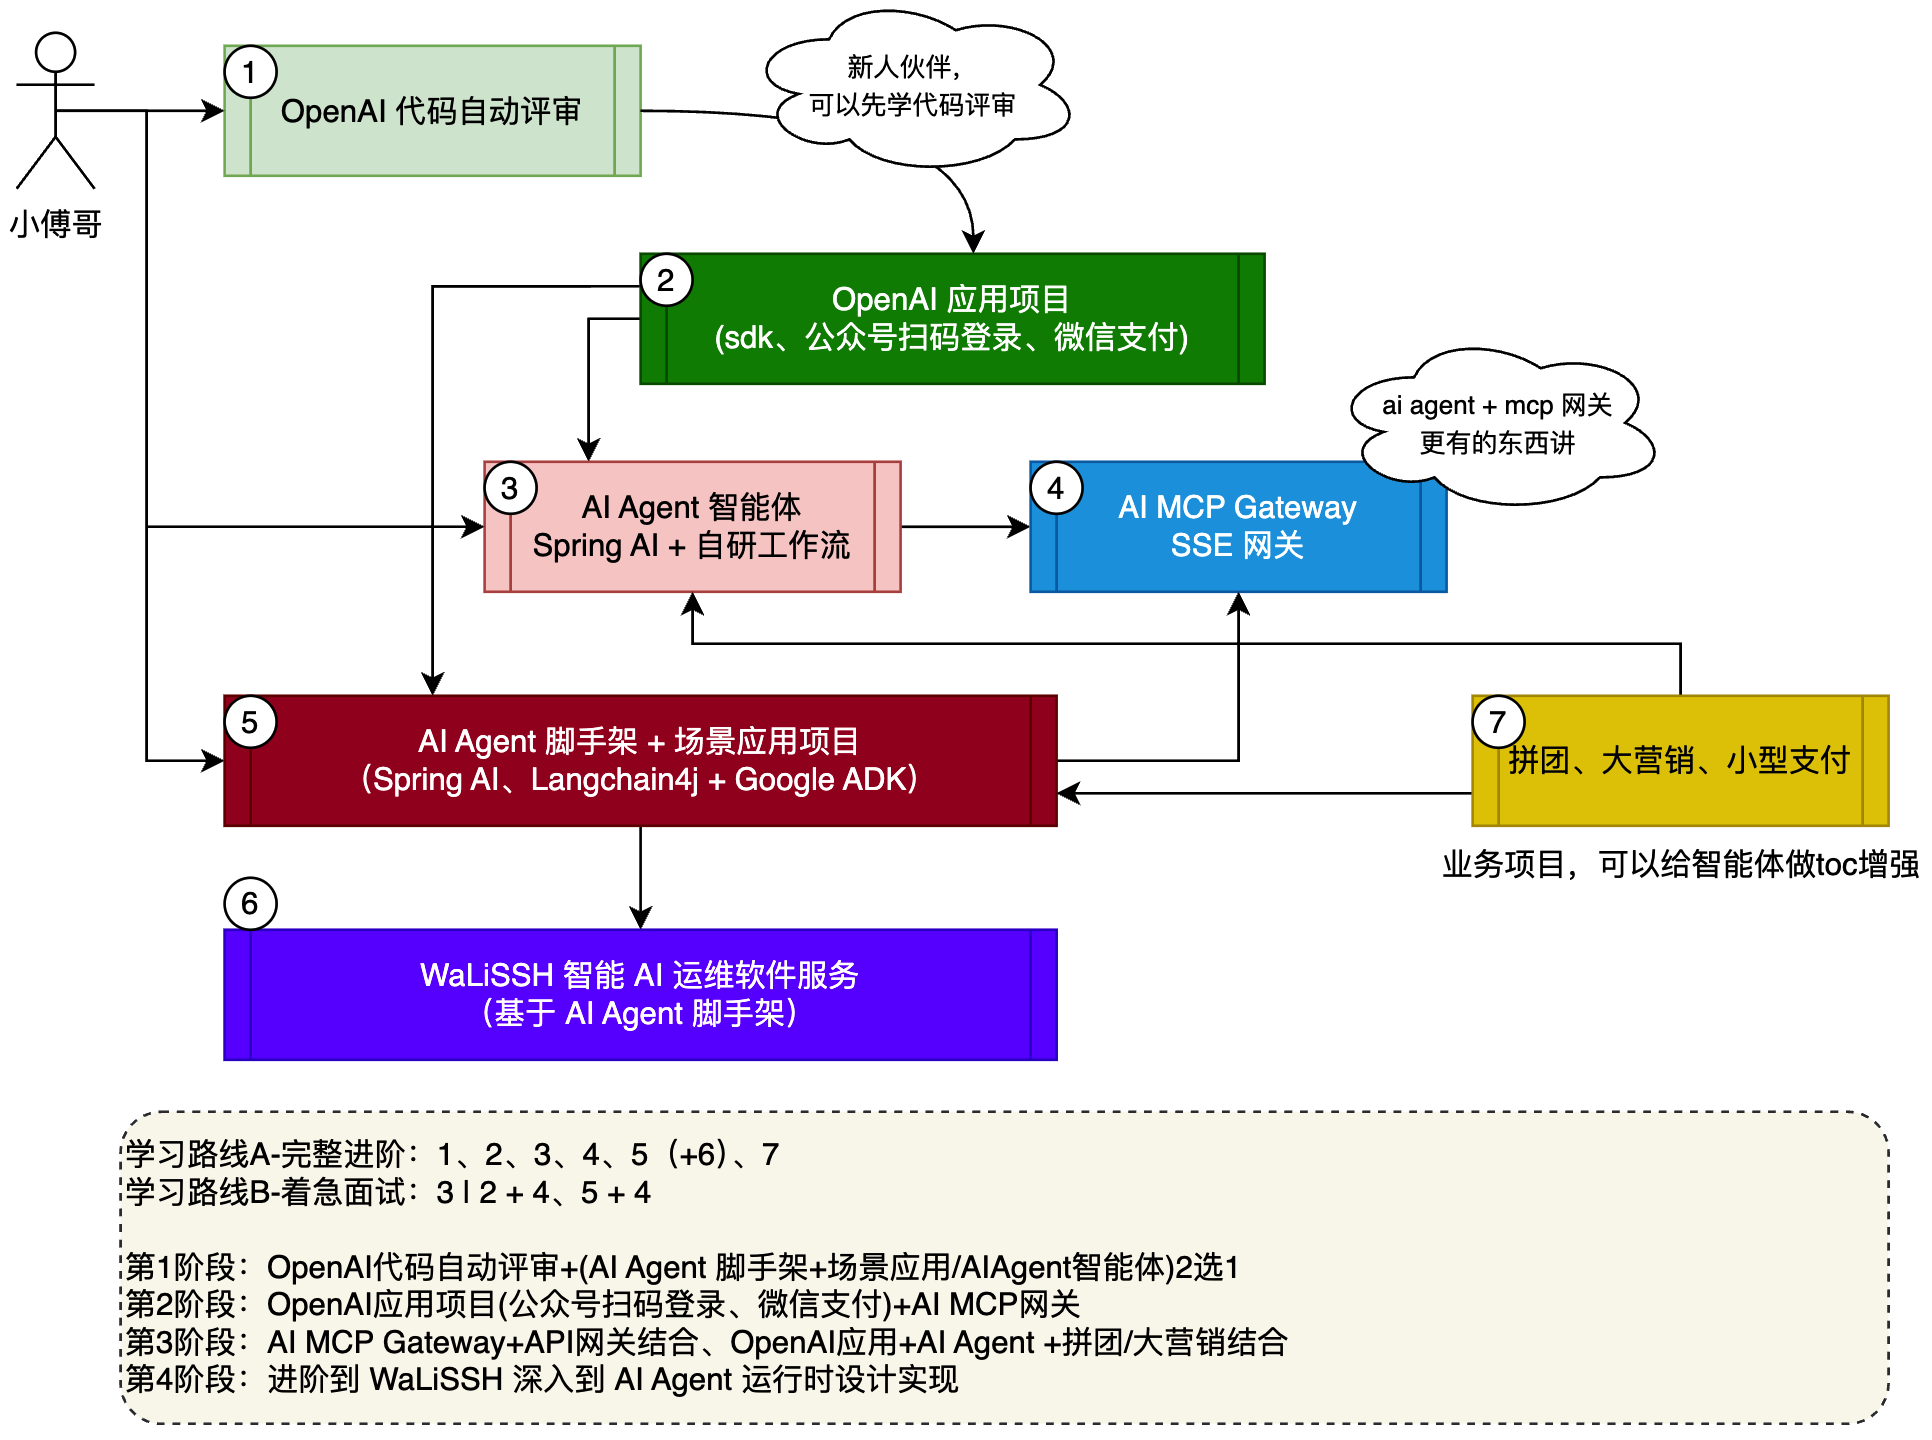
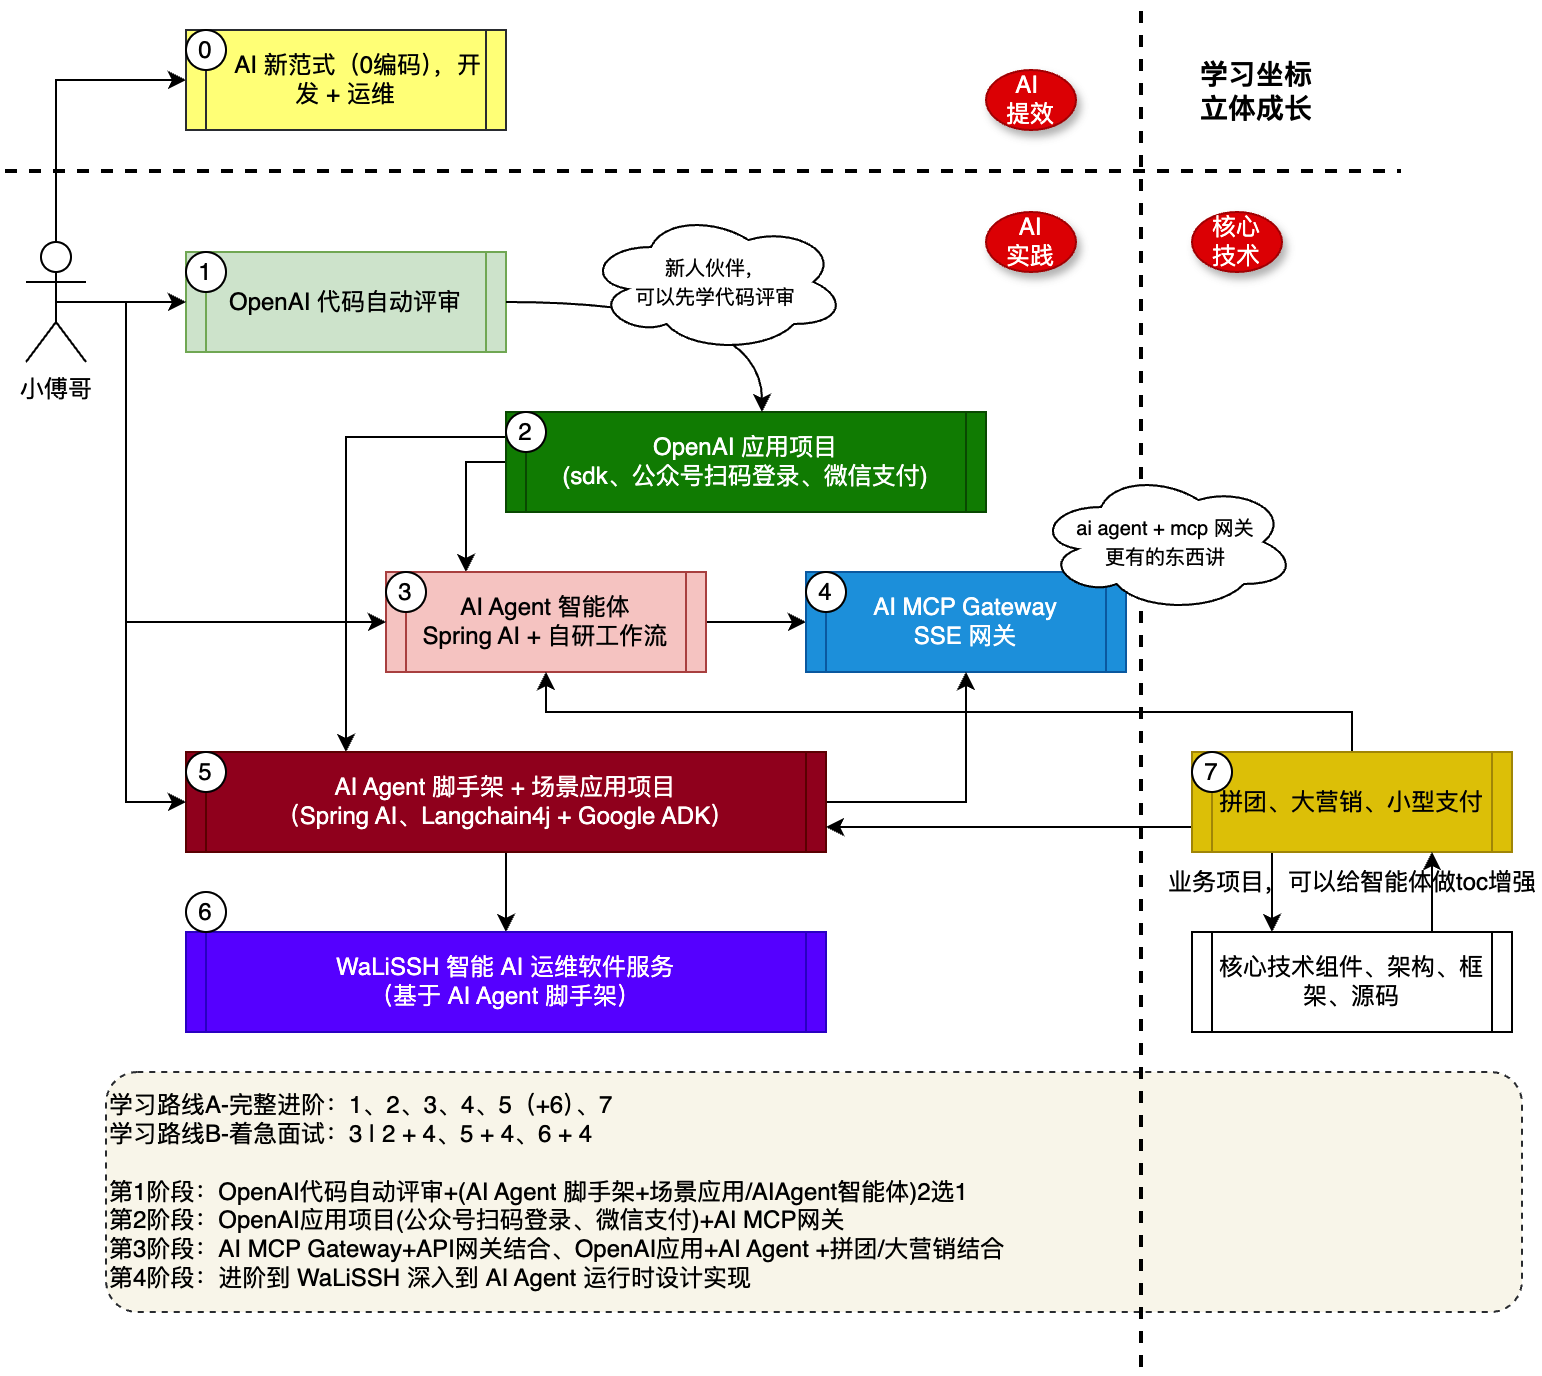
feat：《AI MCP Gateway 网关服务系统》第3-25节：验证服务，LLM对接测试Streamable接口

diff --git a/docs/.vuepress/config.js b/docs/.vuepress/config.js
@@ -2430,6 +2430,7 @@ function getBarAIMCPGateway() {
                 "第3-22节：streamable-http-api，测试验证案例.md",
                 "第3-23节：调整case层结构设计，处理不同方式的mcp实现.md",
                 "第3-24节：通过case和domain，串联出Streamable协议.md",
+                "第3-25节：验证服务，LLM对接测试Streamable接口.md",
                 "none.md",
             ]
         },
@@ -2508,6 +2509,7 @@ function getBarWaLiSSH() {
             sidebarDepth: 0,
             children: [
                 "part-1/第1-1节：初始化工程搭建.md",
+                "part-1/第1-2节：UI 界面设计与实现.md",
                 "none.md",
             ]
         },

diff --git a/docs/md/project/walissh/part-1/第1-2节：UI 界面设计与实现.md b/docs/md/project/walissh/part-1/第1-2节：UI 界面设计与实现.md
@@ -1,0 +1,53 @@
+---
+title: 第1-2节：UI 界面设计与实现
+pay: https://t.zsxq.com/XZl2f
+---
+
+# 《WaLiSSH - AI Shell 智能终端》第1-2节：UI 界面设计与实现
+
+作者：小傅哥
+<br/>博客：[https://bugstack.cn](https://bugstack.cn)
+<br/>视频：[https://t.zsxq.com/Jo31q](https://t.zsxq.com/Jo31q)
+
+>沉淀、分享、成长，让自己和他人都能有所收获！😄
+
+大家好，我是技术UP主小傅哥。
+
+今天是我们《WaLiSSH》项目学习的第2节课程。上一节我们完成了工程初始化搭建，项目已经能跑起来了。但那时候的界面还是比较"原始"的——基本就是组件的堆叠，没有完整的布局体系，也没有统一的视觉风格。
+
+这一节，我们要给 WaLiSSH "穿上衣服"🧥，把它打造成一个专业的、VS Code 风格的 SSH 智能终端界面。
+
+## 一、本章诉求
+
+我们需要在上一节初始化工程的基础上，完成 WaLiSSH 的 UI 界面设计与实现，包括：
+
+1. **布局重构**：从简单的视图切换模式，升级为 VS Code 风格的多面板布局（ActivityBar + Sidebar + Terminal + AI Chat）
+2. **主题系统**：实现一套完整的主题管理机制，支持 Dark、Light、GitHub Dark、森林等多套主题切换
+3. **组件拆分**：将 UI 拆分为独立可维护的组件——Header、ActivityBar、LeftSidebar、RightSidebar、Settings、TerminalPanel
+4. **AI 驱动开发**：通过 AI IDE 工具的提示词，让 AI 帮我们完成 UI 代码编写，学习如何用"需求话术"来驱动 AI 产出高质量的前端代码
+
+>👩🏻🏫敲黑板：这一节的核心不只是"写出 UI"，更重要的是学会**如何用 AI 工具高效地完成 UI 开发**。掌握了提示词的方法论，以后任何前端界面你都能快速🔜搞出来！
+
+## 二、界面设计分析
+
+### 2.1 从 1-1 到 1-2：界面演进
+
+在上一节（1-1-xfg-init-project）中，我们的界面是这样的：
+
+<div align="center">
+	<img src="https://bugstack.cn/images/article/project/walissh/walissh-1-2-01.png" width="950px"/>
+</div>
+
+这个 UI 样式是小傅哥最早做的一个UI演示，再过程中也优化了几个版本。包括上一节最后看到的非常漂亮的UI。不知道你是否做了一个自己的一套UI没？
+
+### 2.2 新版 VS Code 风格布局
+
+这一节，我们将界面重构为**VS Code 风格的多面板布局**，这个布局就是 WaLiCode 的布局效果：
+
+<div align="center">
+	<img src="https://bugstack.cn/images/article/project/walissh/walissh-1-2-02.png" width="950px"/>
+</div>
+
+**👩🏻🏫敲黑板**：这个布局的核心思想是——**"各司其职，灵活组合"**。ActivityBar 做导航、LeftSidebar 做内容面板、Terminal 做核心工作区、RightSidebar 做 AI 辅助。每个区域可以独立显示/隐藏、独立调整宽度，就像 VS Code 一样！
+
+> 如果你最开始不会设计UI，不知道怎么提问，那么就去找一些大厂过往做好的UI，先截图让 AI IDE 设计一版，之后再用这个版本做调整。walissh 的 ui 就是使用 walicode 的截图做的参考设计。

diff --git a/docs/md/project/ai-mcp-gateway/第3-25节：验证服务，LLM对接测试Streamable接口.md b/docs/md/project/ai-mcp-gateway/第3-25节：验证服务，LLM对接测试Streamable接口.md
@@ -1,0 +1,38 @@
+---
+title: 【更】第3-25节：验证服务，LLM对接测试Streamable接口
+pay: 
+---
+
+# 《AI MCP Gateway 网关服务系统》第3-25节：验证服务，LLM对接测试Streamable接口
+
+作者：小傅哥
+<br/>博客：[https://bugstack.cn](https://bugstack.cn)
+<br/>视频：[]()
+
+>沉淀、分享、成长，让自己和他人都能有所收获！😄
+
+## 一、本章诉求
+
+前面我们已经把 Streamable HTTP 协议的基础能力开发出来了，这一节要做的事情就是把这套能力真正验证起来。
+
+这一部分主要做三件事：
+
+1. 验证 Streamable HTTP 服务接口是否可用，包括 `GET / POST / DELETE` 三个入口。
+2. 验证会话管理语义是否符合 Streamable 协议，重点确认不会再像 SSE 一样发送 endpoint 事件。
+3. 验证 LLM 侧是否可以通过 Streamable HTTP 方式，对接网关并完成工具调用。
+
+只要这三件事跑通了，就说明我们前面做的协议适配不是“写出来了”，而是“真的能用起来了”。
+
+## 二、功能设计
+
+如图，Streamable HTTP 协议对接 LLM 服务的整体关系；
+
+<div align="center">
+    <img src="https://bugstack.cn/images/article/project/ai-mcp-gateway/ai-mcp-gateway-3-25-01.png" width="850px"/>
+</div>
+
+- 首先，这一部分的重点是把 Streamable HTTP 协议真正接入到网关服务验证链路中。
+- 之后，需要调整会话管理逻辑，让 Streamable HTTP 走它自己的协议语义，而不是继续沿用 SSE 的 endpoint 下发方式。
+- 最后，在 LLM 侧增加 Streamable 工具回调策略，让模型也可以通过这个协议去加载 MCP 服务。
+
+这里要特别注意一点：**Streamable HTTP 和 SSE 是两套不同的协议语义**。它们虽然都和 MCP 会话相关，但不能直接混用。